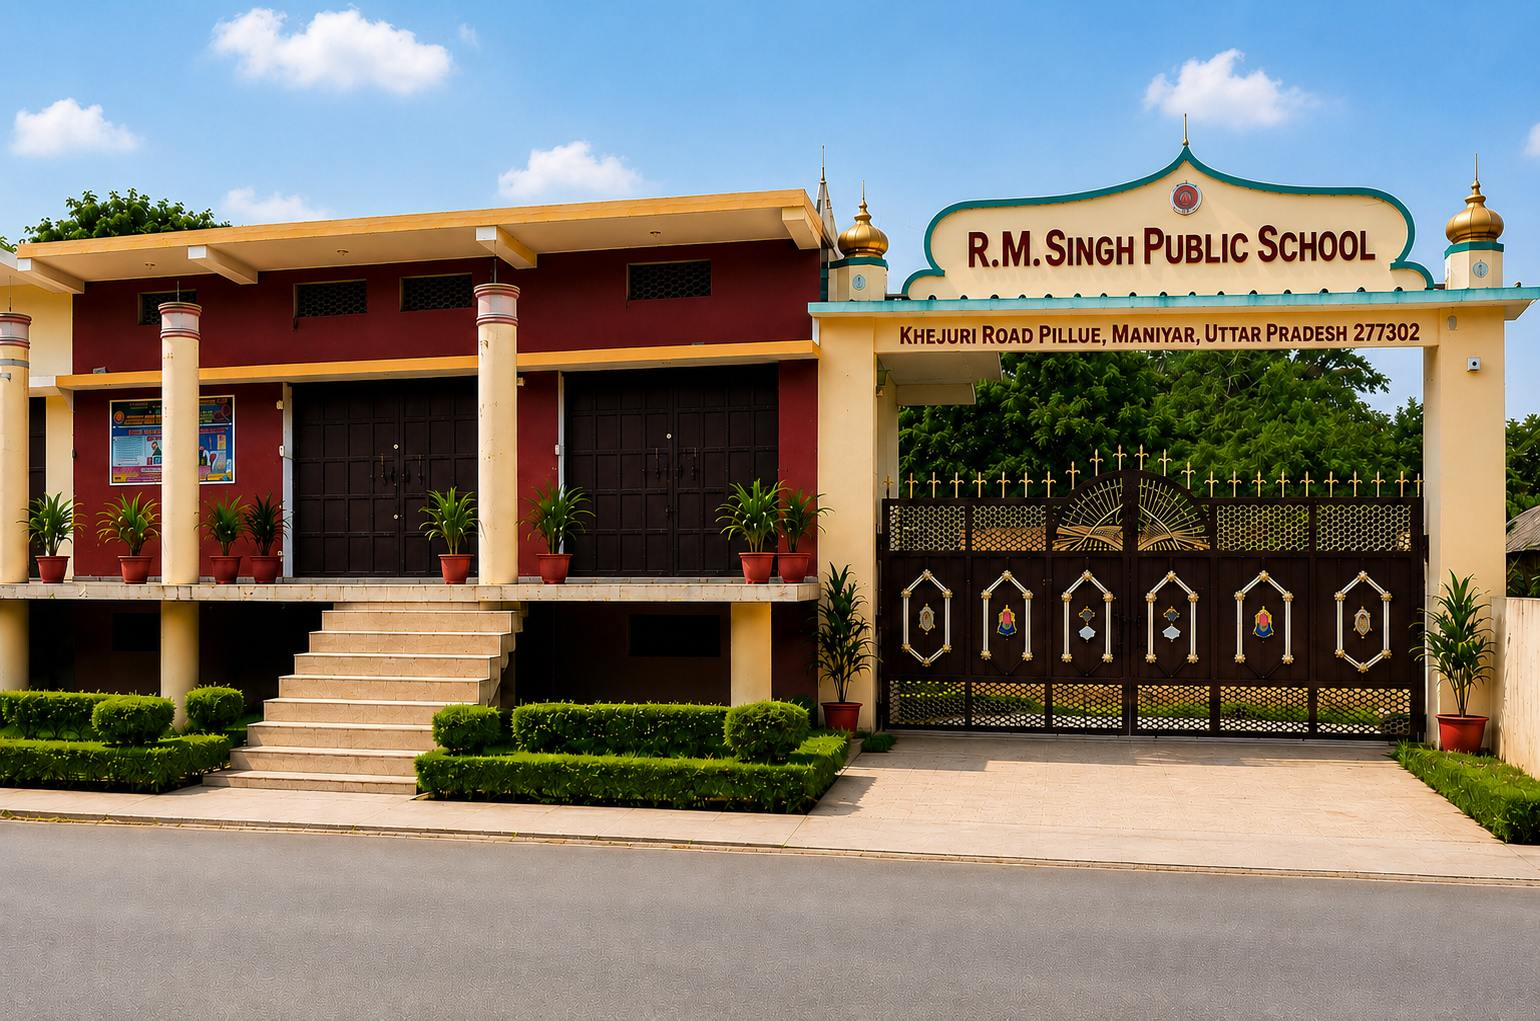
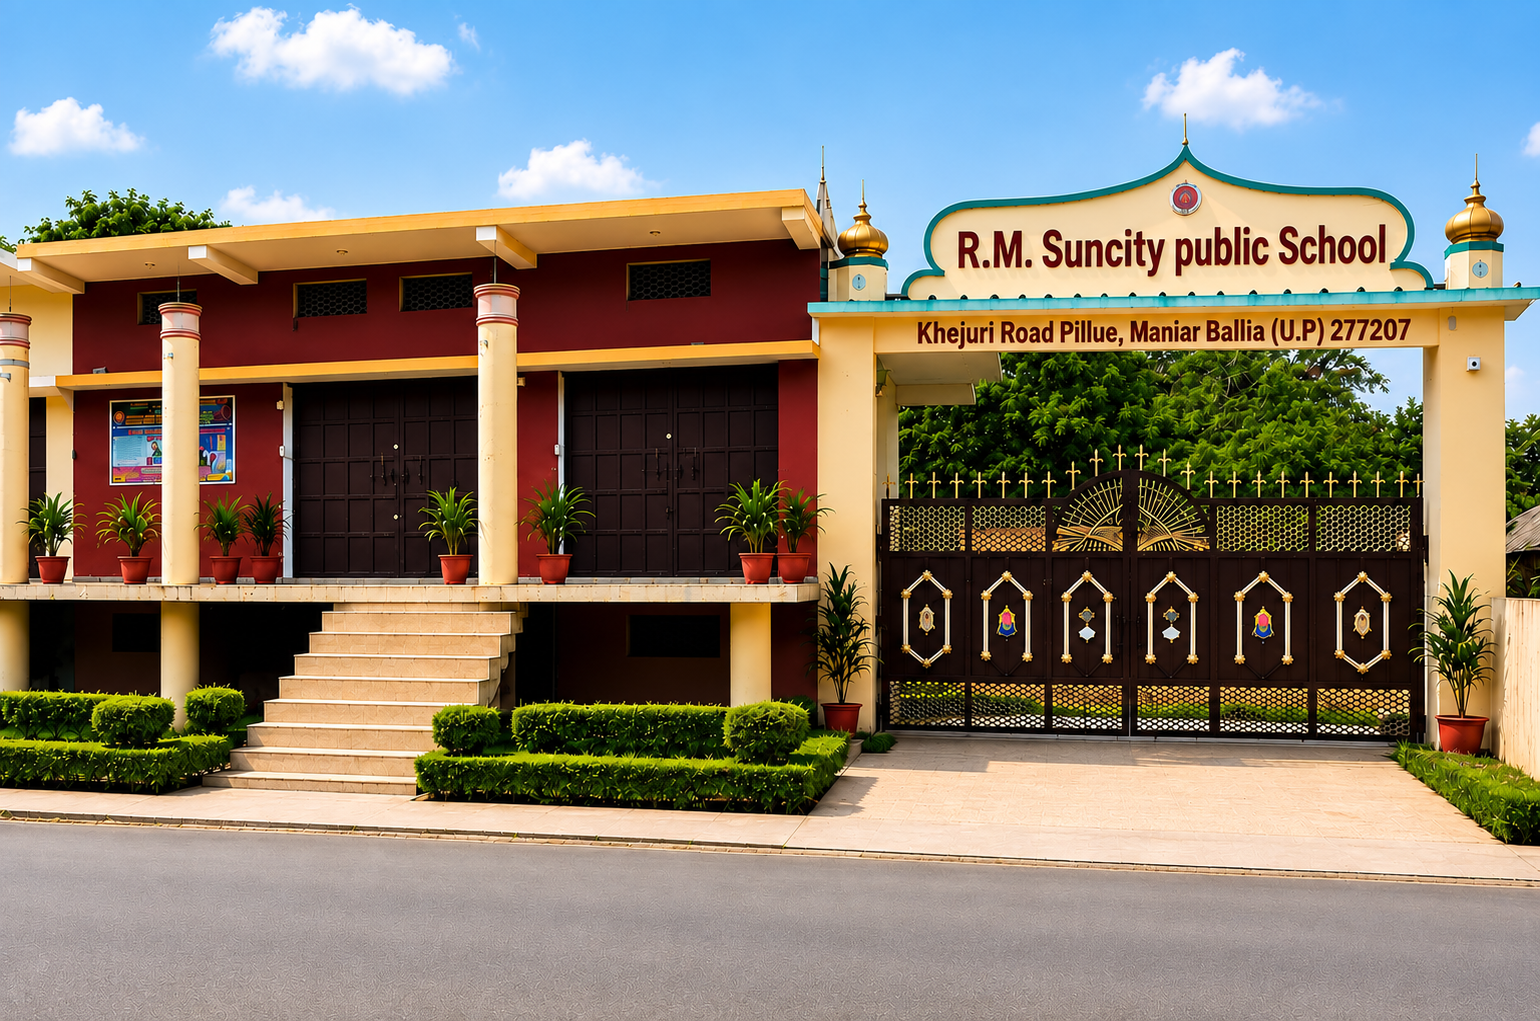
Correct name and address of school everywhere

diff --git a/app/contact/page.tsx b/app/contact/page.tsx
@@ -239,7 +239,7 @@ export default function Contact() {
                   <span className="font-semibold">Visit our campus</span>
                 </div>
                 <p className="text-sm text-gray-700">
-                  R.M. Suncity Public School, Khejuri Road Pillue, Maniyar, Gor Pokhar, Ballia, Uttar Pradesh 277302
+                  R.M. Suncity Public School, Khejuri Road Pillue, Maniar Ballia (U.P.) 277207
                 </p>
               </div>
             </motion.div>
@@ -274,7 +274,7 @@ export default function Contact() {
                 <FaMapMarkerAlt className="mt-1 text-orange-500" />
                 <div>
                   <p className="font-semibold text-gray-900">R.M. Suncity Public School</p>
-                  <p className="text-sm text-gray-600">Khejuri Road Pillue, Maniyar, Gor Pokhar, Ballia, Uttar Pradesh 277302</p>
+                  <p className="text-sm text-gray-600">Khejuri Road Pillue, Maniar Ballia (U.P.) 277207</p>
                 </div>
               </div>
 

diff --git a/components/Footer.tsx b/components/Footer.tsx
@@ -127,8 +127,7 @@ export default function Footer() {
                   size={16}
                 />
                 <span className="text-gray-400 text-sm leading-relaxed">
-                  RM Suncity Public School, Khejuri Road Pillue, Maniyar, Gor
-                  Pokhar, Ballia, Uttar Pradesh 277302
+                  RM Suncity Public School, Khejuri Road Pillue, Maniar Ballia (U.P.) 277207
                 </span>
               </li>
               <li className="flex items-center justify-center lg:justify-start space-x-3 px-6">
